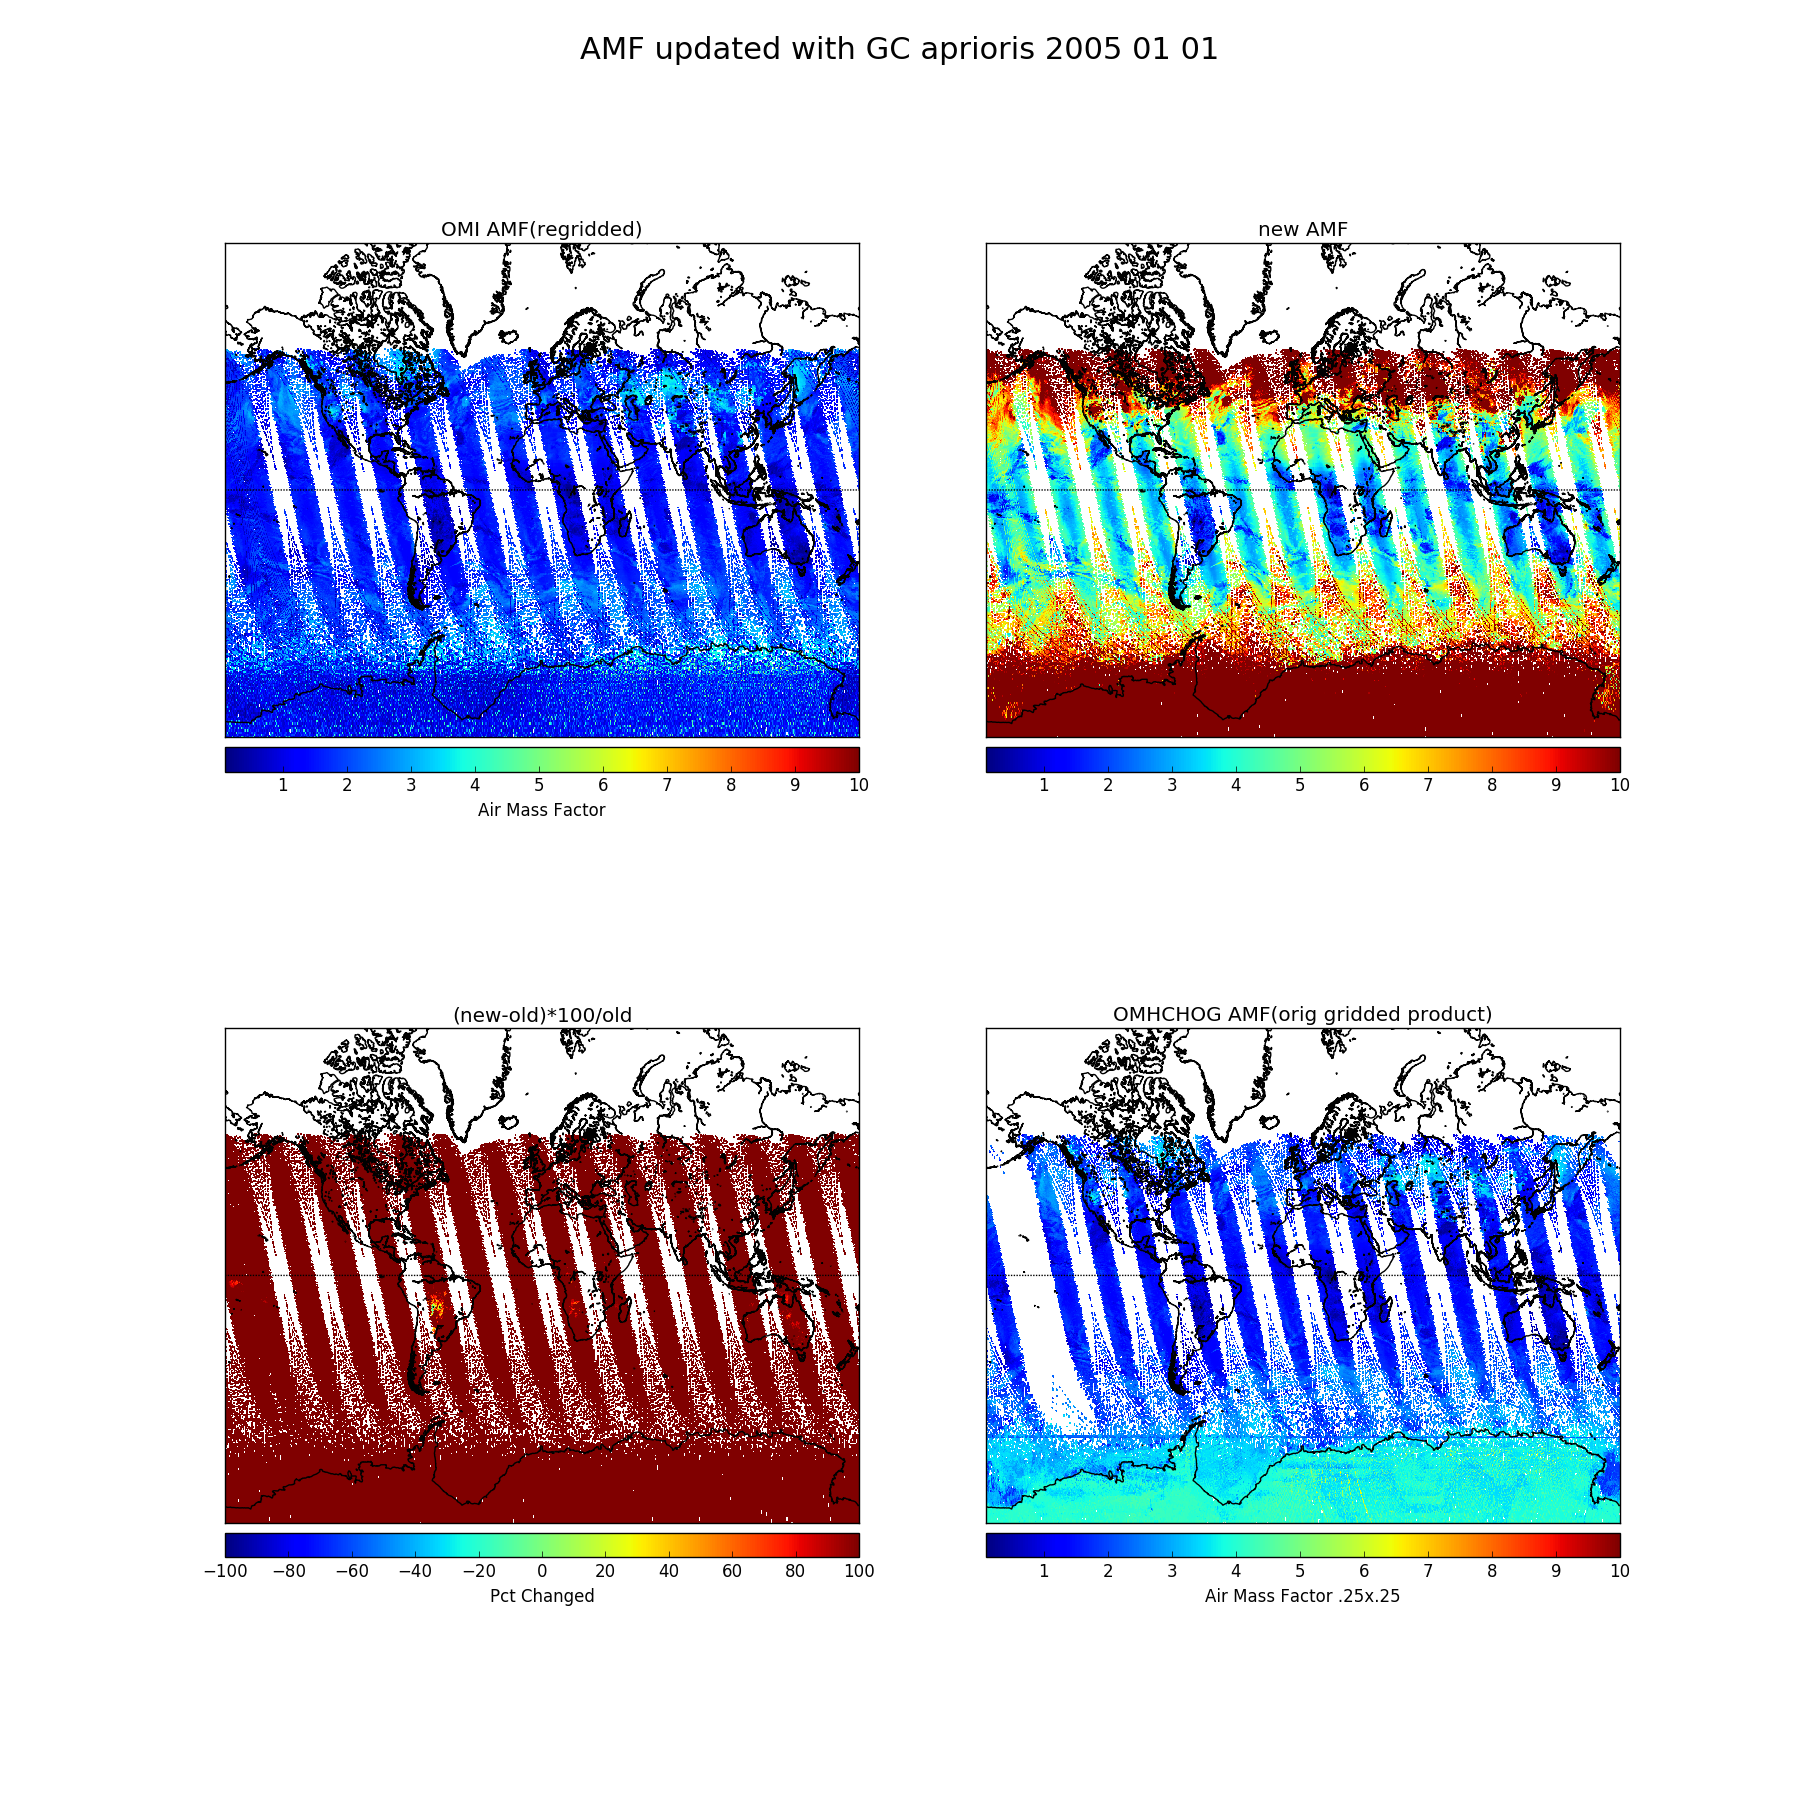
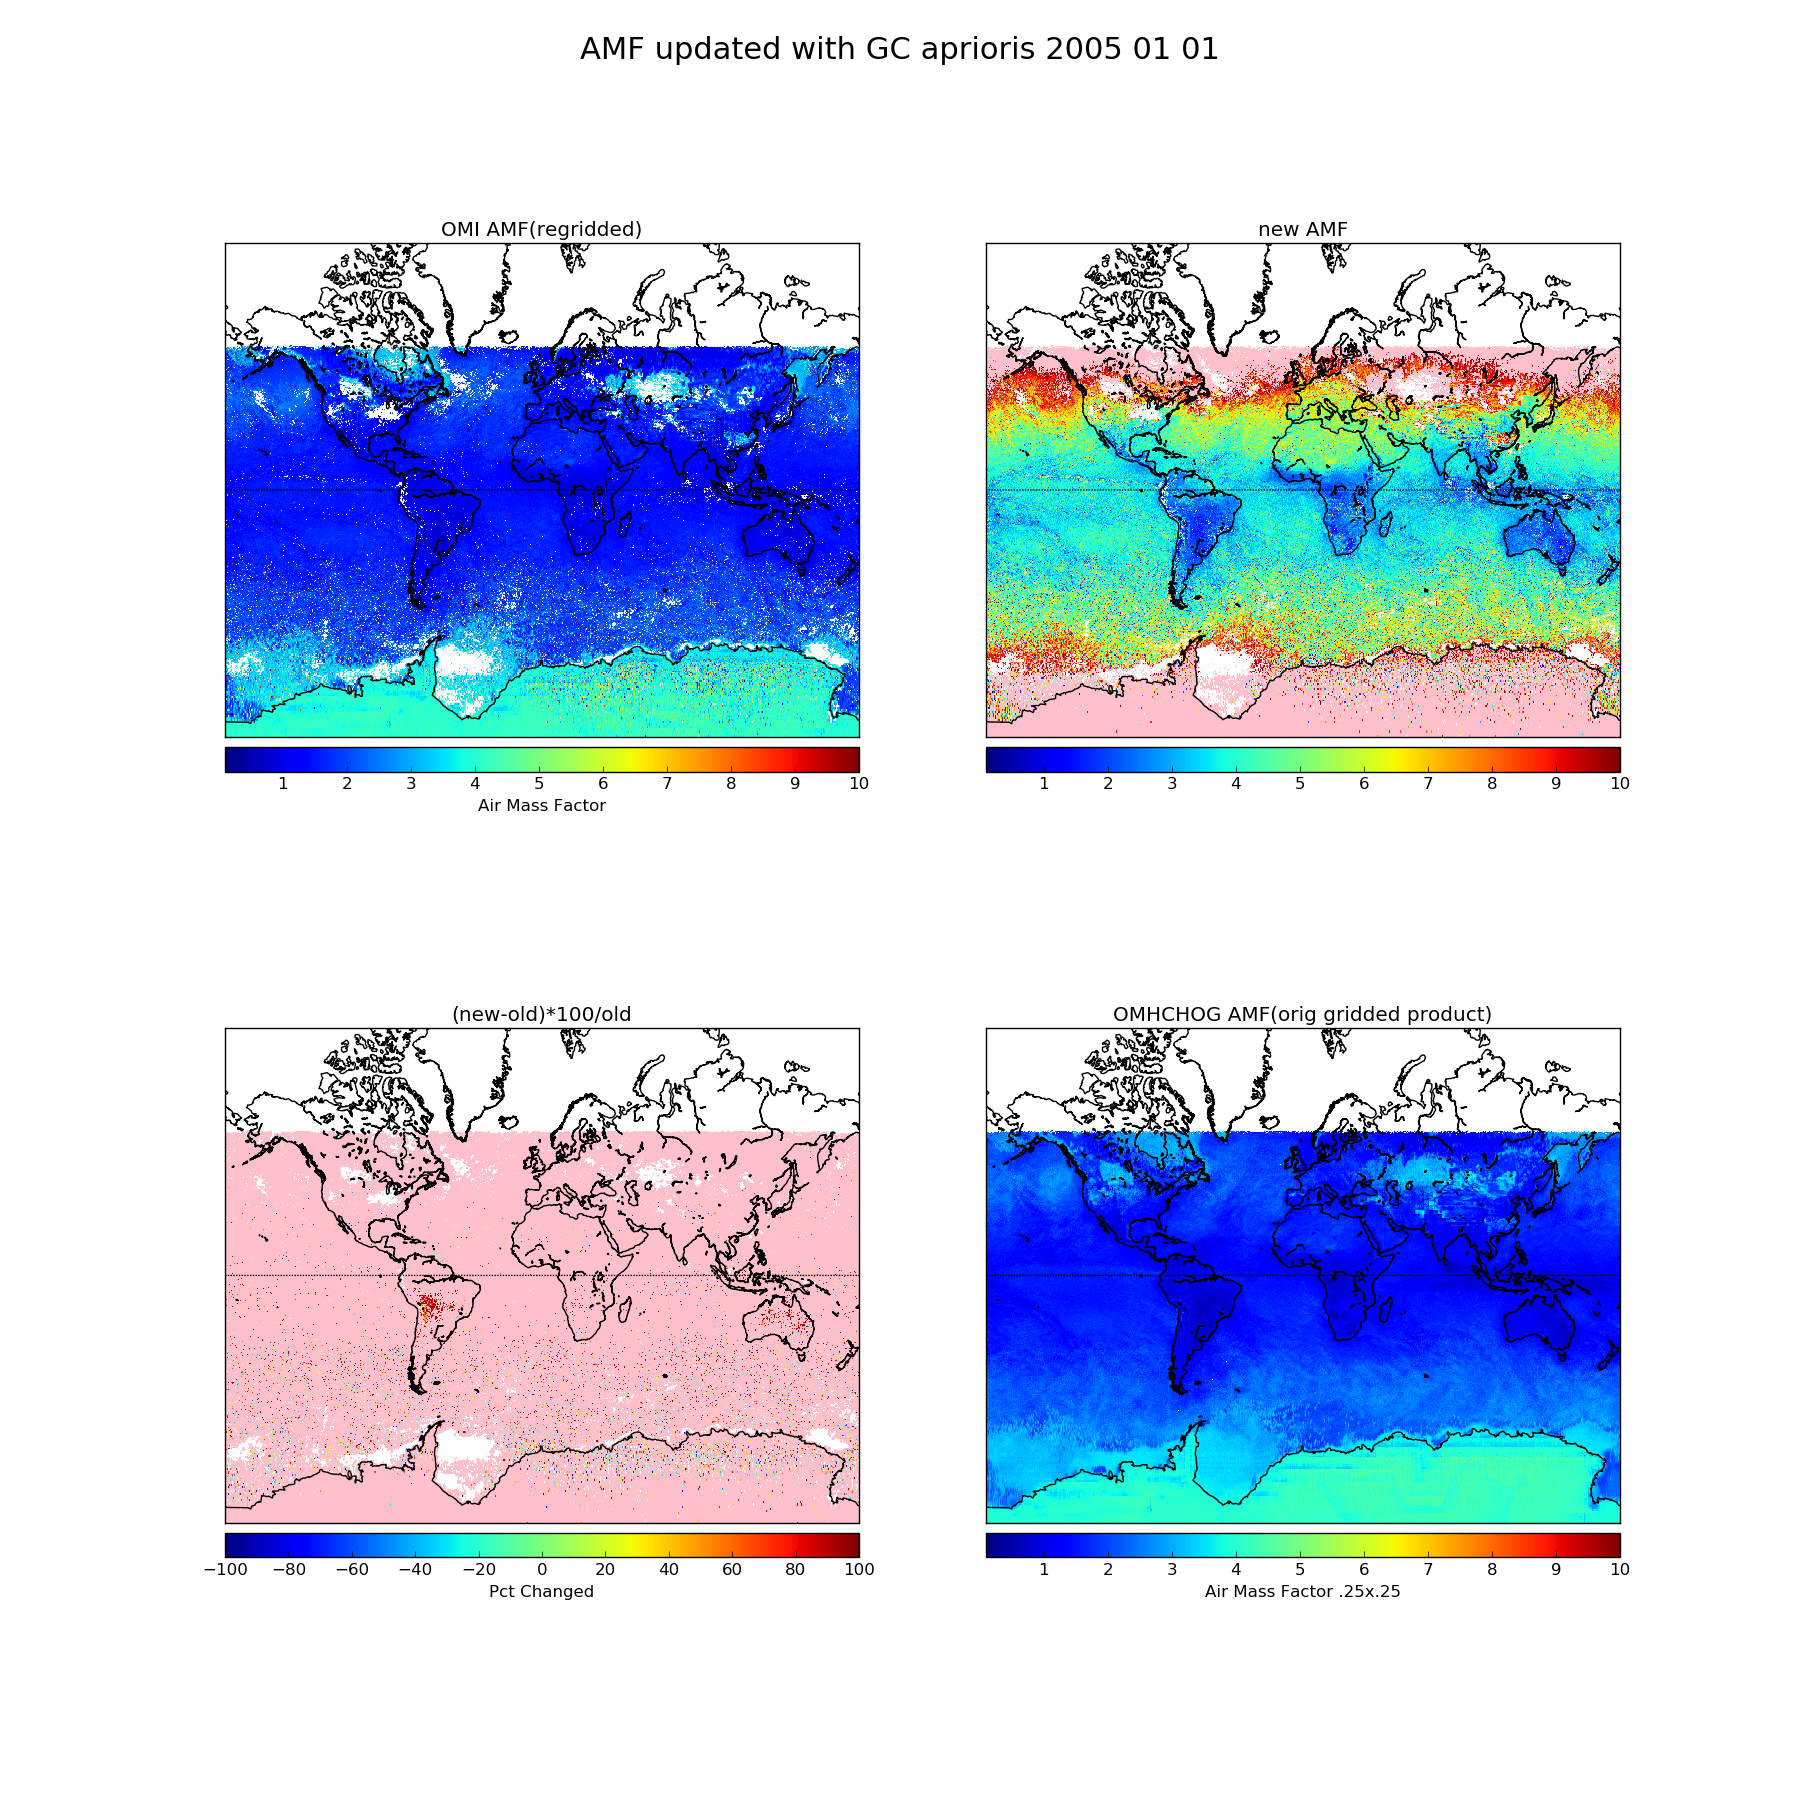
Updated comparison with omhchog L2 product.

diff --git a/tests.py b/tests.py
@@ -93,6 +93,7 @@ def linearmap(data,lats,lons,vmin=None,vmax=None,
 
 def mmm(arr):
     print("%1.5e, %1.5e, %1.5e"%(np.nanmin(arr),np.nanmean(arr),np.nanmax(arr)))
+
 def check_array(array, nonzero=False):
     '''
     print basic stuff about an array
@@ -471,7 +472,7 @@ def check_reprocessed(date=datetime(2005,1,1)):
     amf_new = data['AMF_GC']
     amf_old = data['AMF_OMI']
     VC_new = data['VC_GC']
-    #VC_old = data['VC_OMI']
+    VC_old = data['VC_OMI']
     counts = data['gridentries']
     print (type(amf_new))
     lonmids=data['longitude']
@@ -506,8 +507,8 @@ def check_reprocessed(date=datetime(2005,1,1)):
     print("min mean max new AMFS(sub 60 lats)")
     mmm(fio.filter_high_latitudes(amf_new))
     
-    print ("min mean max old VCs:TBD")
-    #mmm(VC_old)
+    print ("min mean max old VCs:")
+    mmm(VC_old)
     
     print ("min mean max new VCs:")
     mmm(VC_new)
@@ -547,7 +548,7 @@ def check_reprocessed(date=datetime(2005,1,1)):
     
     # title and save the figure
     plt.suptitle('AMF updated with GC aprioris 2005 01 01', fontsize=22)
-    figname1='Reprocessed_AMF_comparison.png'
+    figname1='pictures/Reprocessed_AMF_comparison.png'
     plt.savefig(figname1)
     print("figure saved:" + figname1)
     # clear the figure
@@ -560,7 +561,7 @@ def check_reprocessed(date=datetime(2005,1,1)):
     # old VCs
     plt.subplot(221)
     plt.title('Regridded VC')
-    #m,cs,cb = createmap(VC_old, latmids, lonmids)
+    m,cs,cb = createmap(VC_old, mlats, mlons)
     cb.set_label('Molecules/cm2')
     
     # new VCs
@@ -572,17 +573,18 @@ def check_reprocessed(date=datetime(2005,1,1)):
     # diff:
     plt.subplot(223)
     plt.title('OMHCHOG (L2 gridded)')
-    m,cs,cb = createmap(omg_hcho, omg_lats, omg_lons)
-    cb.set_label('New-Old')
+    omgmlons,omgmlats = np.meshgrid(regularbounds(omg_lons),regularbounds(omg_lats))
+    m,cs,cb = createmap(omg_hcho, omgmlats, omgmlons)
+    cb.set_label('molecs/cm2')
     
     plt.subplot(224)
     plt.title('Pct Diff')
-    #m,cs,cb = linearmap(100.0*(VC_new-VC_old)/VC_old, mlats, mlons, vmin=-100,vmax=100)
+    m,cs,cb = linearmap(100.0*(VC_new-VC_old)/VC_old, mlats, mlons, vmin=-200,vmax=200)
     cb.set_label('(New-Old) * 100 / Old')
     
     # save figure
     plt.suptitle('Reprocessed Vertical Columns 2005 01 01',fontsize=22)
-    figname2='Reprocessed_VC_comparison.png'
+    figname2='pictures/Reprocessed_VC_comparison.png'
     plt.savefig(figname2)
     print("figure saved: "+figname2)
     plt.close()
@@ -965,15 +967,15 @@ if __name__ == '__main__':
     #test_fires_fio()
     #test_amf_calculation() # Check the AMF stuff
     #check_flags_and_entries() # check how many entries are filtered etc...
-    for oneday in [True, False]:
-        test_reprocess_corrected(run_reprocess=False, oneday=oneday)
+    #for oneday in [True, False]:
+    #    test_reprocess_corrected(run_reprocess=False, oneday=oneday)
     #check_high_amfs()
     
     #test_hchorp_apriori()
     #test_gchcho()
     #test_gchcho()
     #test_reprocess()
-    #check_reprocessed()
+    check_reprocessed()
     
     # Check that cloud filter is doing as expected using old output without the cloud filter
     #compare_cloudy_map()
